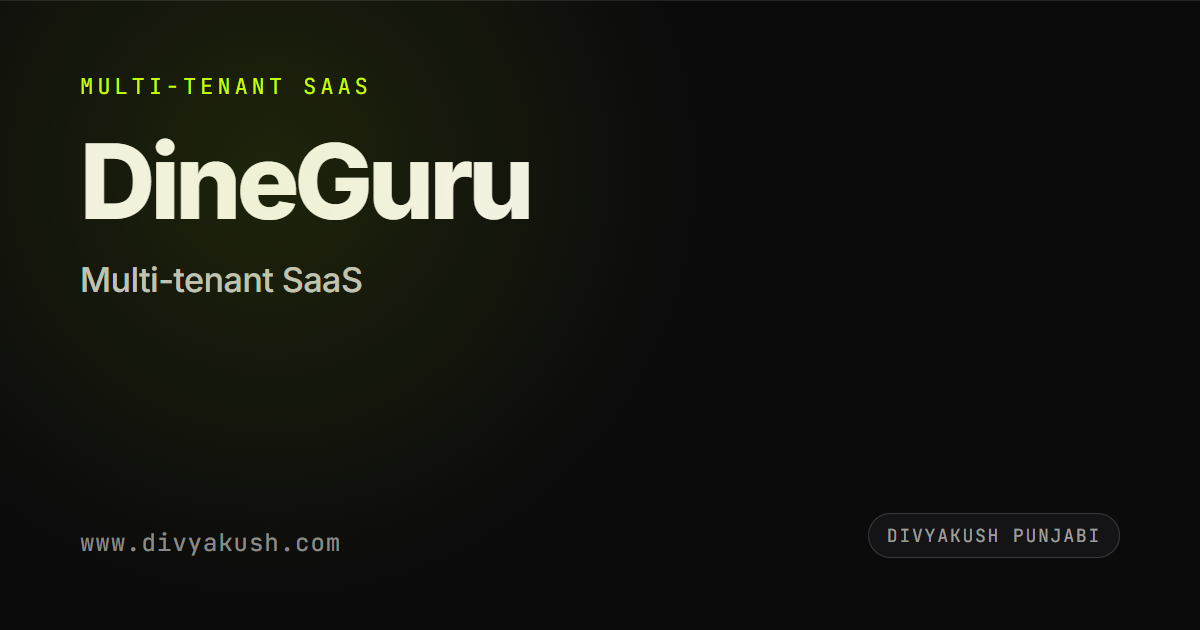
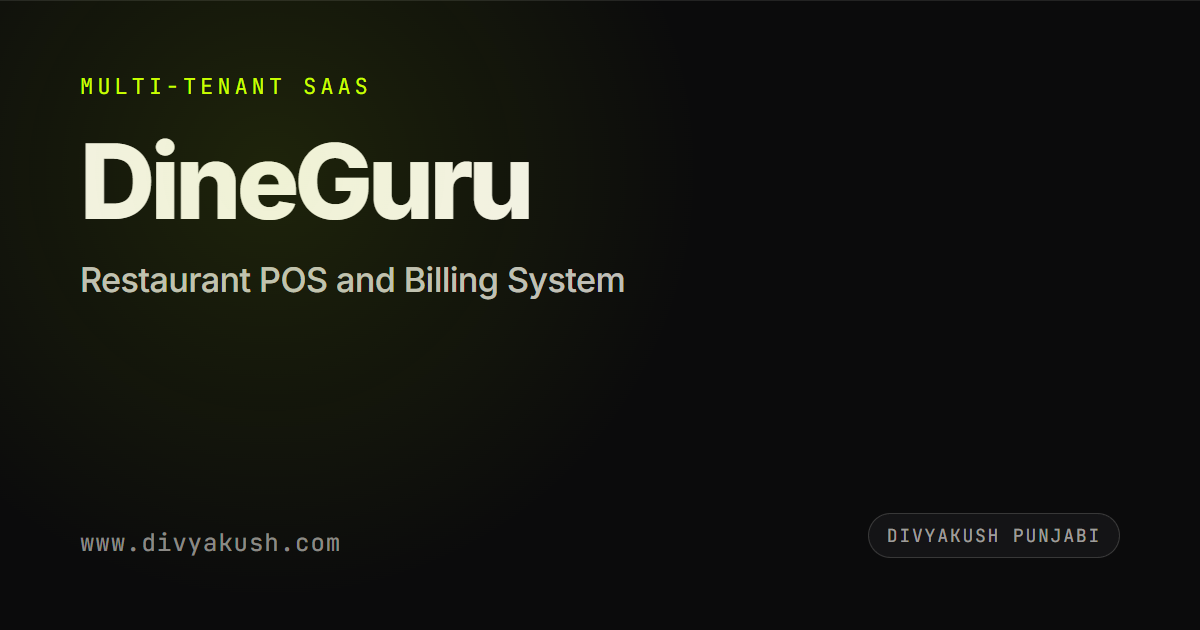
seo: give DineGuru the descriptor the other projects have
"DineGuru — Multi-tenant SaaS" describes the architecture, not the
thing. Nobody looking for restaurant software searches for a tenancy
model, and it was the last project without a line saying what it is.

It is a POS and GST billing system with inventory, recipe costing and
procurement on one core, so that is what the title, the alternateName
and every internal anchor now say. 64 characters, inside the budget,
byline intact. Card regenerated to match.

Changed region(s): [[0.0617, 0.4222, 0.5242, 0.4825]]

diff --git a/src/lib/projects.ts b/src/lib/projects.ts
@@ -527,6 +527,7 @@ export const PROJECTS: Project[] = [
     topics: ['Point of sale', 'Multitenancy'],
     title: 'DineGuru',
     category: 'Multi-tenant SaaS',
+    descriptor: 'Restaurant POS and Billing System',
     year: '2026 — present',
     status: 'Live in production',
     summary:
